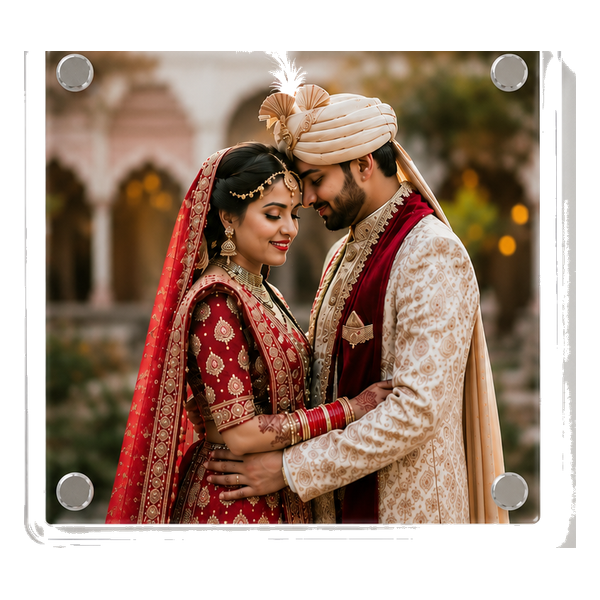
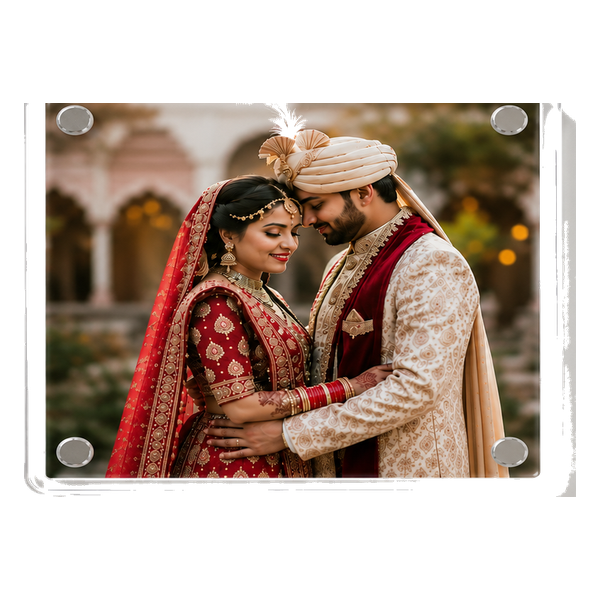
feat: batch quantity tiers (10, 20, 50, 100, 250, 500, 1000, custom), remove order now button, unlock cart whatsapp at 50 pcs, landscape rectangle thumb

diff --git a/src/components/KriaTechPortfolioPage.tsx b/src/components/KriaTechPortfolioPage.tsx
@@ -125,12 +125,14 @@ const PRODUCTS: Product[] = [
 ];
 
 const QUANTITY_TIERS = [
+  { label: '10 Pcs', count: 10, discountPct: 0 },
+  { label: '20 Pcs', count: 20, discountPct: 5 },
   { label: '50 Pcs', count: 50, discountPct: 15 },
   { label: '100 pcs', count: 100, discountPct: 25 },
   { label: '250 pcs', count: 250, discountPct: 28 },
   { label: '500 pcs', count: 500, discountPct: 30 },
   { label: '1000 pcs', count: 1000, discountPct: 33 },
-  { label: 'Custom', count: 0, discountPct: 15 }
+  { label: 'Custom', count: 0, discountPct: 0 }
 ];
 
 // Sliding images for Hero Carousel
@@ -533,8 +535,8 @@ export default function KriaTechPortfolioPage({ onBackToStore }: Props) {
   // Calculation for Product Detail Page
   const currentSize = activeProduct ? activeProduct.sizes[activeSizeIndex] || activeProduct.sizes[0] : null;
   const currentTier = QUANTITY_TIERS.find((t) => t.label === selectedQtyLabel) || QUANTITY_TIERS[0];
-  const actualQty = currentTier.label === 'Custom' ? Math.max(50, customQtyValue) : currentTier.count;
-  const discountRate = actualQty >= 1000 ? 0.33 : actualQty >= 500 ? 0.30 : actualQty >= 250 ? 0.28 : actualQty >= 100 ? 0.25 : 0.15;
+  const actualQty = currentTier.label === 'Custom' ? Math.max(1, customQtyValue) : currentTier.count;
+  const discountRate = actualQty >= 1000 ? 0.33 : actualQty >= 500 ? 0.30 : actualQty >= 250 ? 0.28 : actualQty >= 100 ? 0.25 : actualQty >= 50 ? 0.15 : actualQty >= 20 ? 0.05 : 0;
   const unitOriginalPrice = currentSize ? currentSize.basePrice : 49;
   const unitDiscountedPrice = Math.round(unitOriginalPrice * (1 - discountRate));
   const discountPercentage = Math.round(discountRate * 100);
@@ -569,7 +571,7 @@ export default function KriaTechPortfolioPage({ onBackToStore }: Props) {
         const existing = updated[existingIdx];
         const newQty = existing.quantity + newItem.quantity;
         // Recalculate tier discount
-        const newDiscountRate = newQty >= 1000 ? 0.33 : newQty >= 500 ? 0.30 : newQty >= 250 ? 0.28 : newQty >= 100 ? 0.25 : 0.15;
+        const newDiscountRate = newQty >= 1000 ? 0.33 : newQty >= 500 ? 0.30 : newQty >= 250 ? 0.28 : newQty >= 100 ? 0.25 : newQty >= 50 ? 0.15 : newQty >= 20 ? 0.05 : 0;
         const newUnitPrice = Math.round(existing.originalUnitPrice * (1 - newDiscountRate));
         updated[existingIdx] = {
           ...existing,
@@ -595,7 +597,7 @@ export default function KriaTechPortfolioPage({ onBackToStore }: Props) {
         .map((item) => {
           if (item.id === id) {
             const newQty = Math.max(1, item.quantity + delta);
-            const newDiscountRate = newQty >= 1000 ? 0.50 : newQty >= 500 ? 0.45 : newQty >= 250 ? 0.40 : newQty >= 100 ? 0.35 : newQty >= 50 ? 0.30 : 0.15;
+            const newDiscountRate = newQty >= 1000 ? 0.33 : newQty >= 500 ? 0.30 : newQty >= 250 ? 0.28 : newQty >= 100 ? 0.25 : newQty >= 50 ? 0.15 : newQty >= 20 ? 0.05 : 0;
             const newUnitPrice = Math.round(item.originalUnitPrice * (1 - newDiscountRate));
             return {
               ...item,
@@ -982,7 +984,7 @@ Please confirm bulk order placement and dispatch timeline.`;
                     Volume Tier Discount
                   </span>
                 </div>
-                <div className="grid grid-cols-3 sm:grid-cols-6 gap-2">
+                <div className="grid grid-cols-4 sm:grid-cols-8 gap-2">
                   {QUANTITY_TIERS.map((t) => (
                     <button
                       key={t.label}
@@ -1002,13 +1004,13 @@ Please confirm bulk order placement and dispatch timeline.`;
                 {/* Custom Quantity Stepper if Custom is chosen */}
                 {selectedQtyLabel === 'Custom' && (
                   <div className="mt-4 pt-3 border-t border-[#EFE5D9] flex items-center gap-3">
-                    <span className="text-xs font-mono text-[#6E6153]">Enter exact pieces (MOQ 50):</span>
+                    <span className="text-xs font-mono text-[#6E6153]">Enter exact pieces:</span>
                     <input
                       type="number"
-                      min={50}
+                      min={1}
                       max={10000}
                       value={customQtyValue}
-                      onChange={(e) => setCustomQtyValue(Math.max(50, parseInt(e.target.value) || 50))}
+                      onChange={(e) => setCustomQtyValue(Math.max(1, parseInt(e.target.value) || 1))}
                       className="w-28 px-3 py-1.5 rounded-lg border border-[#D8C7B5] bg-white font-mono text-sm text-[#1E1B18] outline-none focus:ring-2 focus:ring-[#C4A574]"
                     />
                     <span className="text-xs font-mono text-[#8C7A68]">frames</span>
@@ -1043,34 +1045,22 @@ Please confirm bulk order placement and dispatch timeline.`;
                   </div>
                 </div>
 
-                {/* 4. Action Buttons: Add to Cart + Direct WhatsApp Order */}
-                <div className="pt-2 flex flex-col sm:flex-row items-stretch sm:items-center gap-3">
-                  {/* Button A: Add To Cart (allows adding different shapes & sizes) */}
+                {/* 4. Action Button: Add to Cart */}
+                <div className="pt-2">
                   <button
                     type="button"
                     onClick={handleAddToCart}
-                    className="flex-1 inline-flex items-center justify-center gap-2.5 py-4 px-5 rounded-2xl bg-[#1E1B18] hover:bg-[#8C6436] text-white text-xs sm:text-sm font-bold uppercase tracking-[0.14em] shadow-md hover:shadow-lg transition-all cursor-pointer group"
+                    className="w-full inline-flex items-center justify-center gap-2.5 py-4 px-5 rounded-2xl bg-[#1E1B18] hover:bg-[#8C6436] text-white text-xs sm:text-sm font-bold uppercase tracking-[0.14em] shadow-md hover:shadow-lg transition-all cursor-pointer group"
                   >
                     <ShoppingCart className="h-4.5 w-4.5 text-[#E5D7C5] group-hover:scale-110 transition-transform" />
                     <span>Add to Cart ({actualQty} pcs)</span>
                   </button>
-
-                  {/* Button B: Direct WhatsApp Quote */}
-                  <a
-                    href={waLink(buildExactQuoteMessage(activeProduct.name, currentSize.label, currentSize.dimensions, actualQty, unitDiscountedPrice, unitOriginalPrice, totalPrice, factorySavings))}
-                    target="_blank"
-                    rel="noopener noreferrer"
-                    className="flex-1 inline-flex items-center justify-center gap-2.5 py-4 px-5 rounded-2xl bg-gradient-to-r from-[#25D366] to-[#1EBE5D] text-white text-xs sm:text-sm font-bold uppercase tracking-[0.14em] shadow-[0_8px_25px_rgba(37,211,102,0.35)] hover:shadow-[0_12px_32px_rgba(37,211,102,0.48)] hover:scale-[1.01] active:scale-[0.99] transition-all cursor-pointer"
-                  >
-                    <MessageCircle className="h-4.5 w-4.5" />
-                    <span>Order Now on WhatsApp</span>
-                  </a>
                 </div>
 
                 <div className="p-3 rounded-xl bg-amber-50/80 border border-amber-200/80 text-[11px] text-amber-900 flex items-start gap-2">
                   <Info className="h-4 w-4 shrink-0 text-amber-700 mt-0.5" />
                   <span>
-                    Add multiple shapes and sizes to your Cart! When you are ready, tap <strong>"Order All on WhatsApp"</strong> from the cart drawer to submit your entire custom combination in one clean message.
+                    Add multiple shapes and sizes to your Cart! When you reach the minimum order of <strong>50 pcs</strong>, tap <strong>"Order All on WhatsApp"</strong> from the cart drawer to submit your entire order.
                   </span>
                 </div>
               </div>
@@ -1930,16 +1920,32 @@ Please confirm bulk order placement and dispatch timeline.`;
                   </div>
                 </div>
 
-                {/* Submit All to WhatsApp */}
-                <a
-                  href={waLink(buildMultiCartWhatsAppMessage())}
-                  target="_blank"
-                  rel="noopener noreferrer"
-                  className="w-full inline-flex items-center justify-center gap-2.5 py-3.5 px-5 rounded-xl bg-gradient-to-r from-[#25D366] to-[#1EBE5D] text-white text-xs sm:text-sm font-bold uppercase tracking-[0.14em] shadow-[0_6px_22px_rgba(37,211,102,0.35)] hover:scale-[1.01] active:scale-[0.99] transition-all cursor-pointer"
-                >
-                  <MessageCircle className="h-4.5 w-4.5" />
-                  <span>Order All on WhatsApp (₹{totalCartPrice.toLocaleString('en-IN')})</span>
-                </a>
+                {/* Submit All to WhatsApp — Unlocked when min quantity is 50 pcs */}
+                {totalCartFrames >= 50 ? (
+                  <a
+                    href={waLink(buildMultiCartWhatsAppMessage())}
+                    target="_blank"
+                    rel="noopener noreferrer"
+                    className="w-full inline-flex items-center justify-center gap-2.5 py-3.5 px-5 rounded-xl bg-gradient-to-r from-[#25D366] to-[#1EBE5D] text-white text-xs sm:text-sm font-bold uppercase tracking-[0.14em] shadow-[0_6px_22px_rgba(37,211,102,0.35)] hover:scale-[1.01] active:scale-[0.99] transition-all cursor-pointer"
+                  >
+                    <MessageCircle className="h-4.5 w-4.5" />
+                    <span>Order All on WhatsApp ({totalCartFrames} pcs)</span>
+                  </a>
+                ) : (
+                  <div className="space-y-2">
+                    <button
+                      type="button"
+                      disabled
+                      className="w-full inline-flex items-center justify-center gap-2.5 py-3.5 px-5 rounded-xl bg-stone-200 text-stone-500 text-xs sm:text-sm font-bold uppercase tracking-[0.14em] cursor-not-allowed border border-stone-300"
+                    >
+                      <MessageCircle className="h-4.5 w-4.5 text-stone-400" />
+                      <span>Order All on WhatsApp ({totalCartFrames} pcs)</span>
+                    </button>
+                    <div className="p-2.5 rounded-lg bg-amber-50 border border-amber-200 text-center text-xs font-mono text-amber-800">
+                      ⚠ Minimum wholesale order is <strong>50 pcs</strong>. Add <strong>{50 - totalCartFrames} more pcs</strong> to unlock WhatsApp ordering.
+                    </div>
+                  </div>
+                )}
 
                 <p className="text-[10px] font-mono text-center text-[#8C7A68]">
                   🔒 Your entire multi-shape order summary will be sent to WhatsApp. Please confirm order placement and dispatch timeline!
